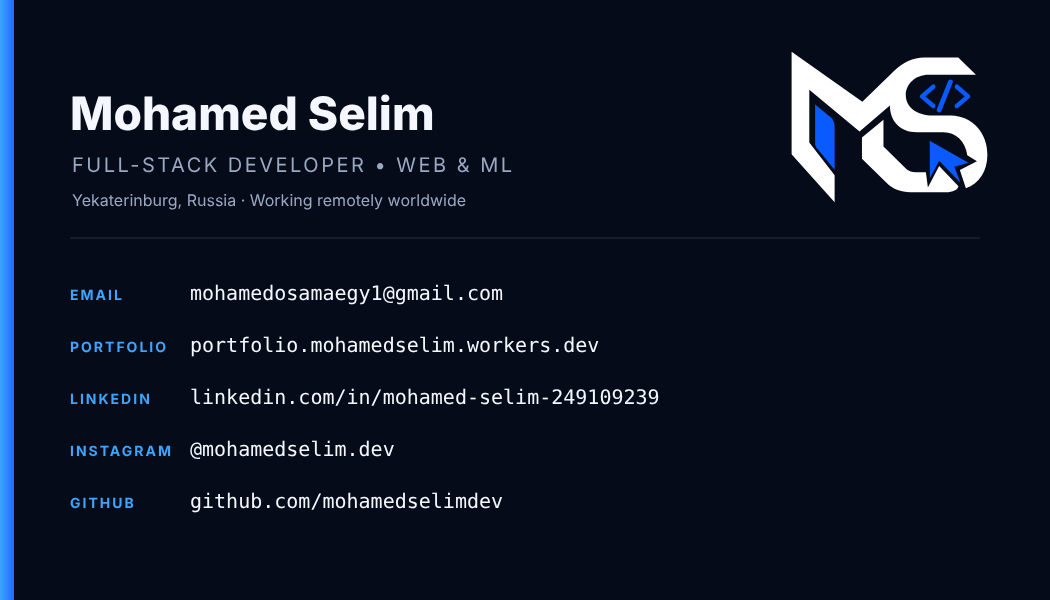
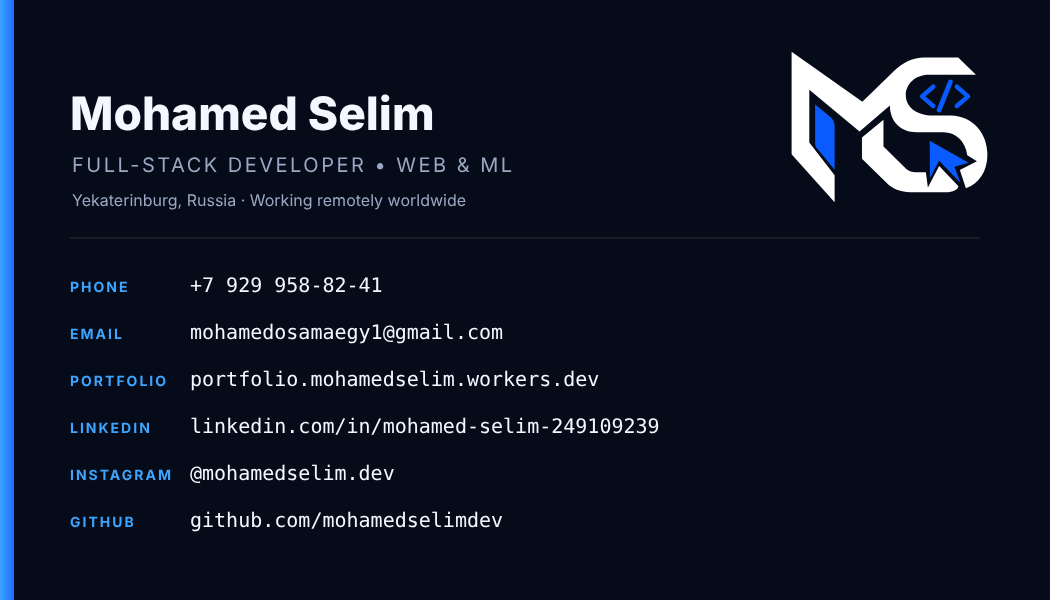
Add phone number to business card (#14)
Claude-Session: https://claude.ai/code/session_01R8NTzc6n59NJVJKXuffiJu

Changed region(s): [[0.061, 0.54, 0.64, 0.9], [0.1829, 0.45, 0.4876, 0.51], [0.061, 0.45, 0.1219, 0.51]]

diff --git a/scripts/make_brand.py b/scripts/make_brand.py
@@ -159,11 +159,11 @@ card_front = f'''<svg xmlns="http://www.w3.org/2000/svg" width="1050" height="60
 <text x="525" y="470" text-anchor="middle" font-family="{MONO}" font-size="22" fill="{ACCENT}">&lt;/&gt; I build things that actually work</text>
 </svg>'''
 
-contacts = [("EMAIL", "mohamedosamaegy1@gmail.com"), ("PORTFOLIO", "portfolio.mohamedselim.workers.dev"),
+contacts = [("PHONE", "+7 929 958-82-41"), ("EMAIL", "mohamedosamaegy1@gmail.com"), ("PORTFOLIO", "portfolio.mohamedselim.workers.dev"),
             ("LINKEDIN", "linkedin.com/in/mohamed-selim-249109239"), ("INSTAGRAM", "@mohamedselim.dev"),
             ("GITHUB", "github.com/mohamedselimdev")]
-rows = "".join(f'<text x="70" y="{300 + k * 52}" font-family="{SANS}" font-size="14" font-weight="700" fill="{ACCENT}" letter-spacing="2">{a}</text>'
-               f'<text x="190" y="{300 + k * 52}" font-family="{MONO}" font-size="20" fill="{FG}">{b}</text>' for k, (a, b) in enumerate(contacts))
+rows = "".join(f'<text x="70" y="{292 + k * 47}" font-family="{SANS}" font-size="14" font-weight="700" fill="{ACCENT}" letter-spacing="2">{a}</text>'
+               f'<text x="190" y="{292 + k * 47}" font-family="{MONO}" font-size="20" fill="{FG}">{b}</text>' for k, (a, b) in enumerate(contacts))
 card_back = f'''<svg xmlns="http://www.w3.org/2000/svg" width="1050" height="600" viewBox="0 0 1050 600">
 {defs()}
 <rect width="1050" height="600" fill="{BG}"/>
